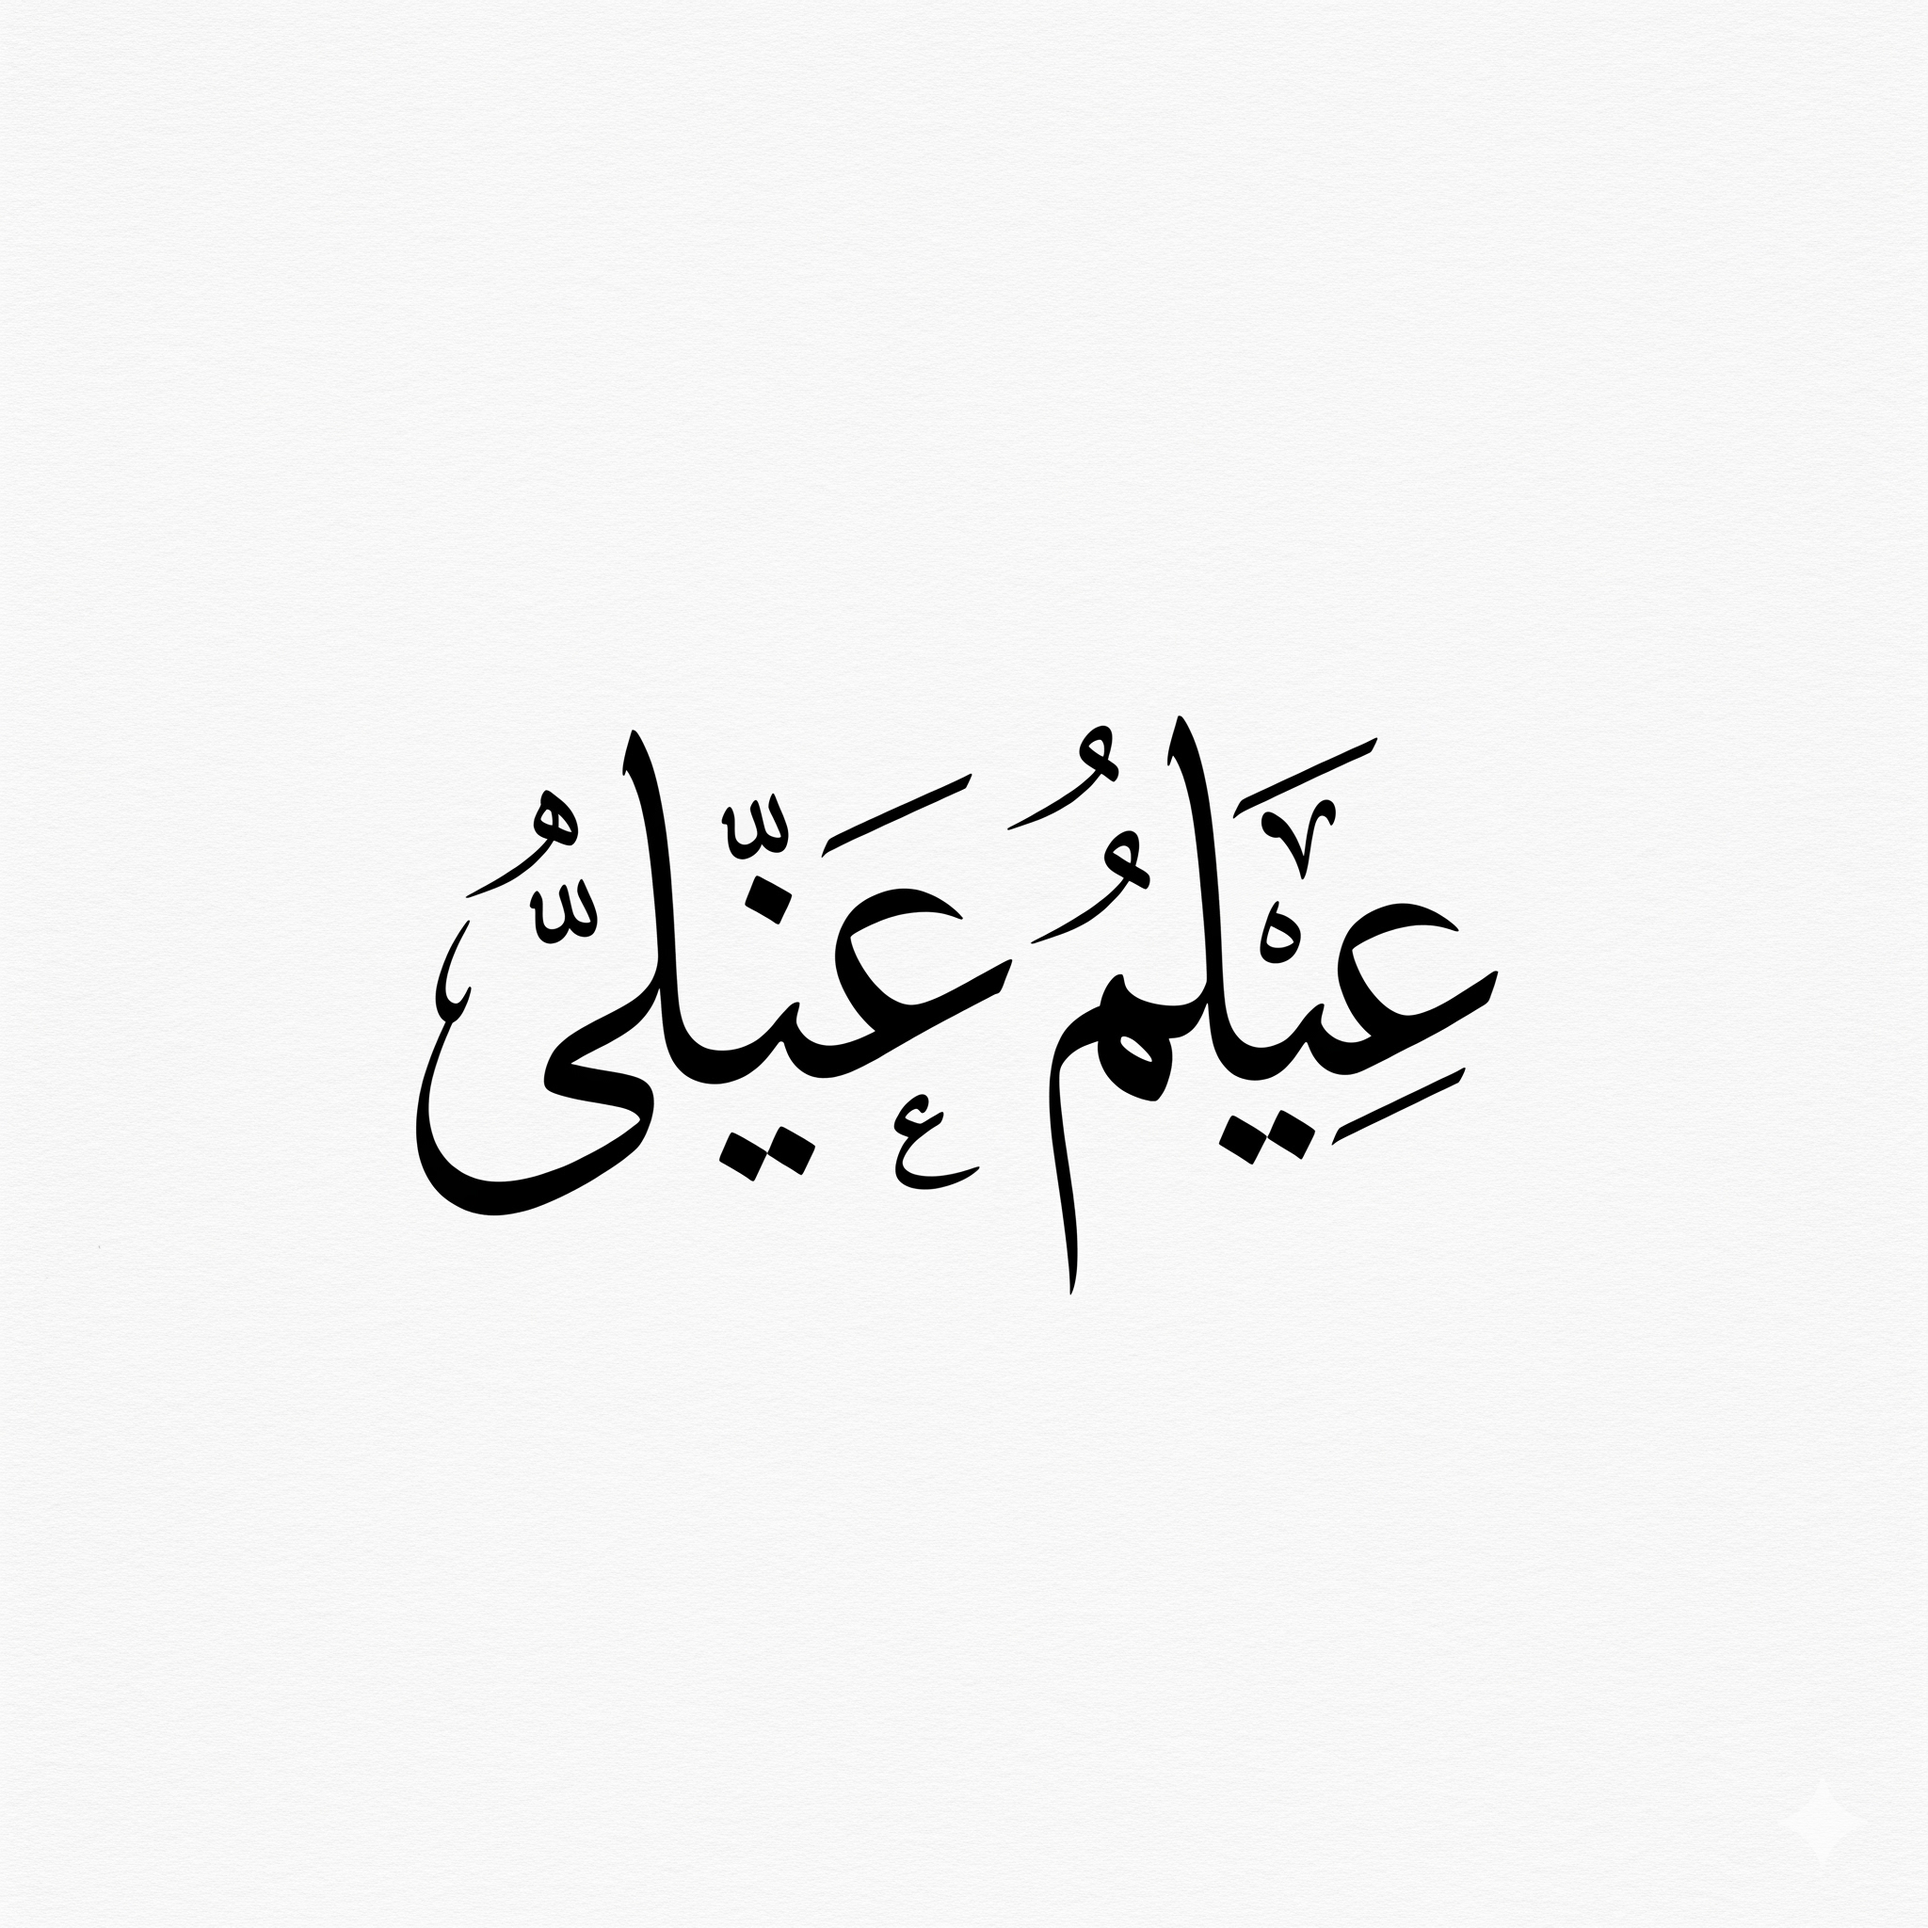
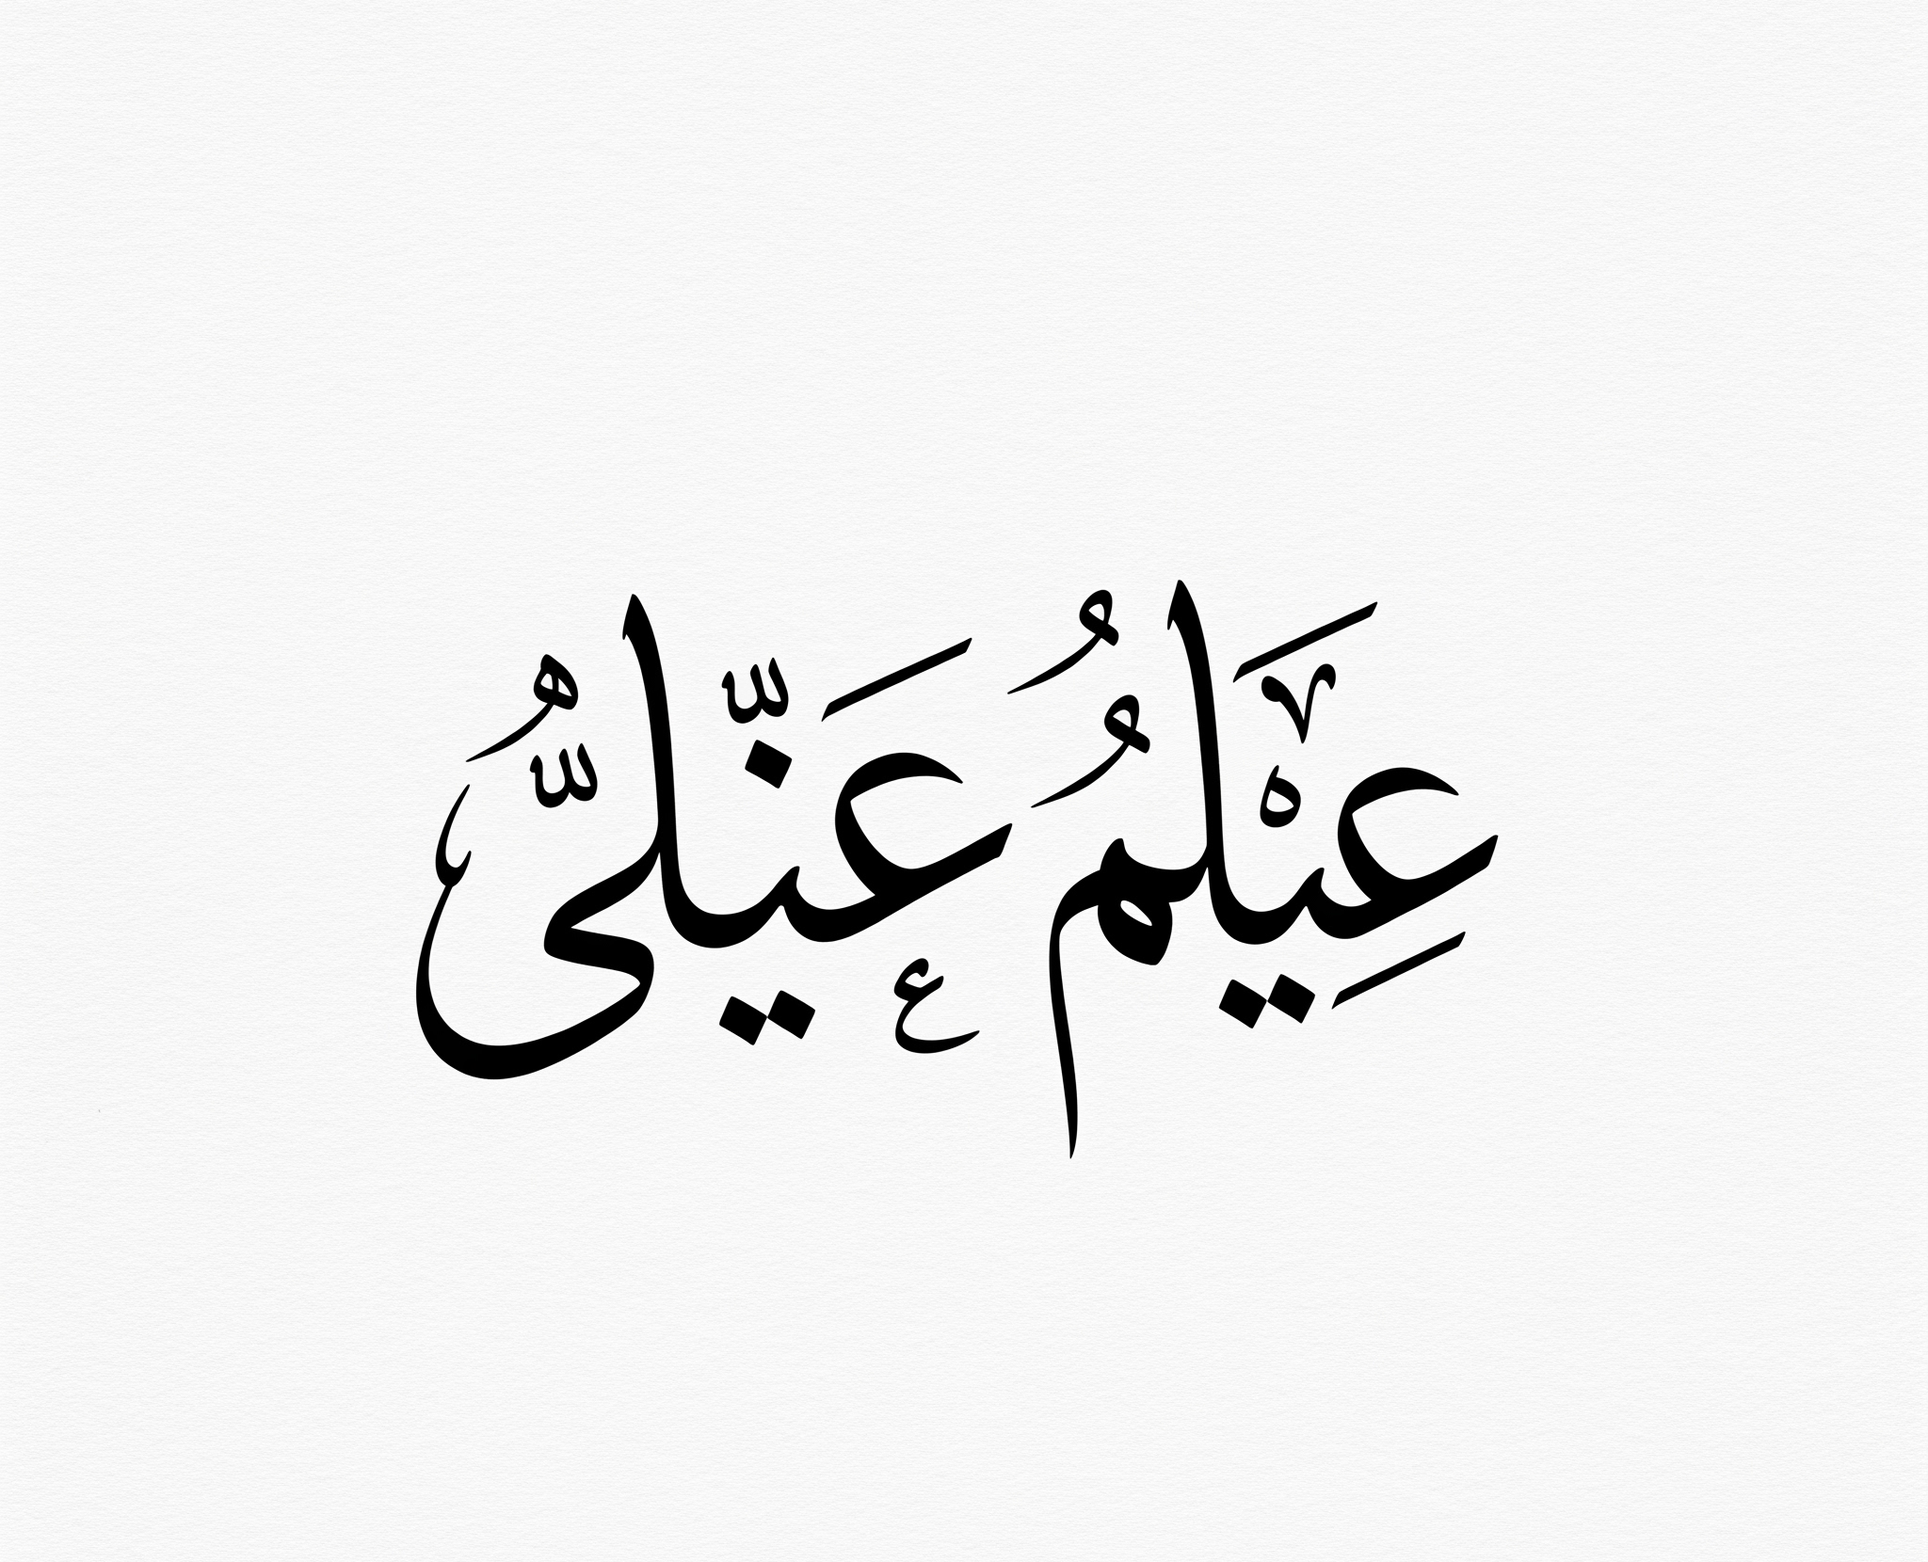
style(images): update writing system images and adjust modal image style

Changed region(s): [[0.2188, 0.3687, 0.7812, 0.7373]]

diff --git a/styles/language-explorer.css b/styles/language-explorer.css
@@ -254,7 +254,7 @@
 .le-modal-image {
   width: 100%;
   height: 200px;
-  object-fit: contain;
+  object-fit: fill;
   border-radius: var(--radius-md);
   margin-bottom: var(--spacing-lg);
   background-color: var(--color-muted);
